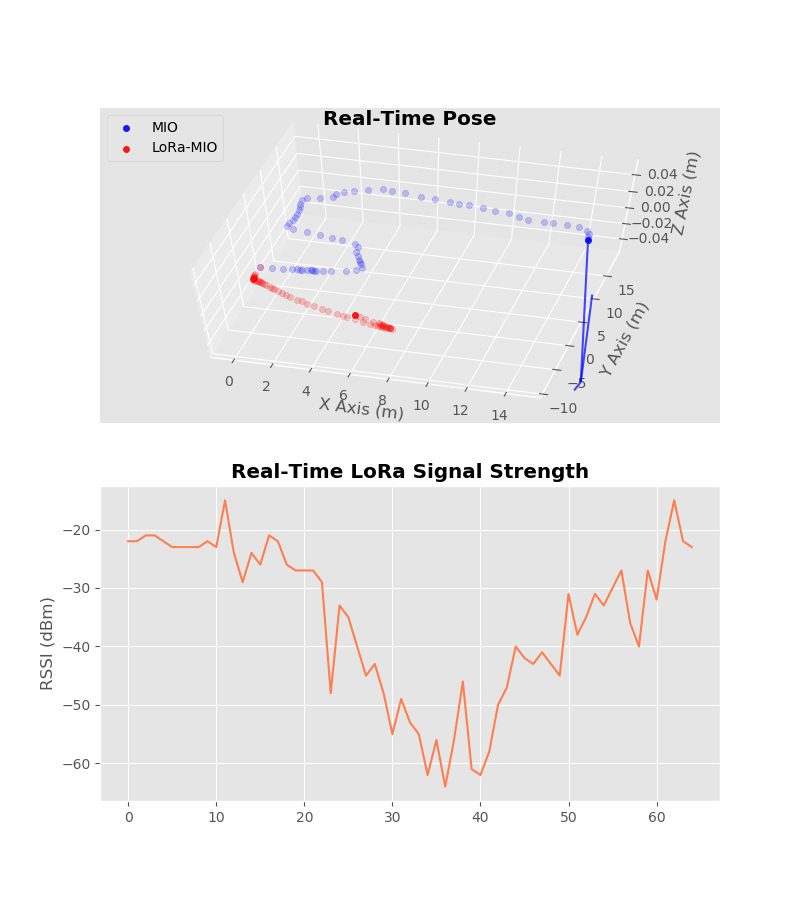
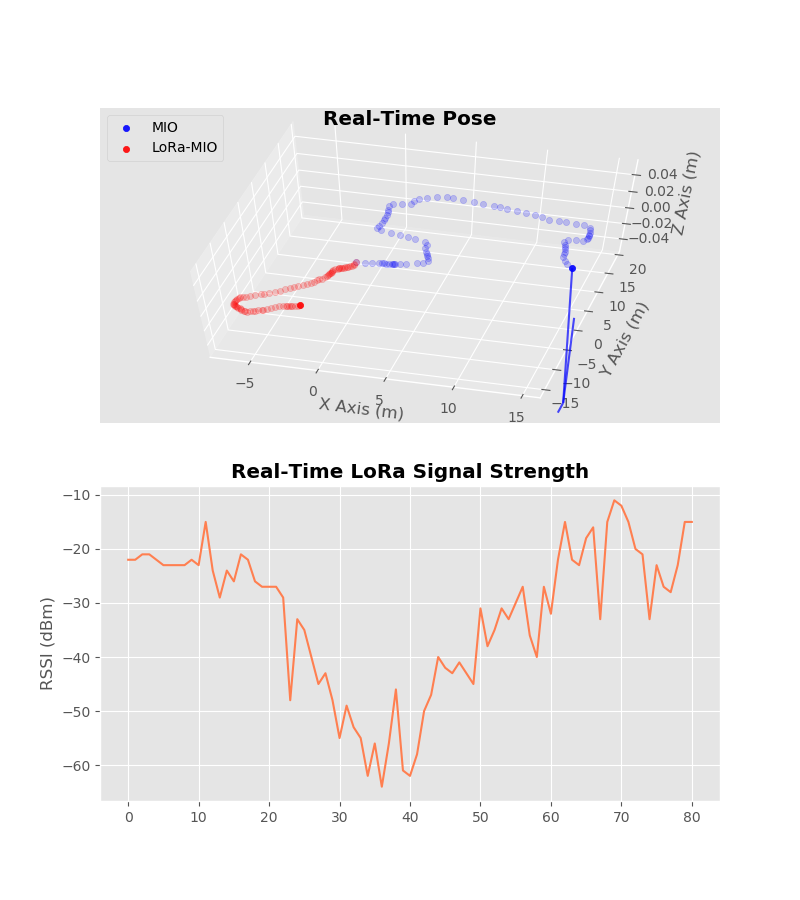
Implemented data Replayer; attempt to tweek EKF params

diff --git a/EKF.py b/EKF.py
@@ -34,8 +34,8 @@ def HJacobian_at(x, anchor=1):
     theta = x[2, 0]
     V = x[3, 0]
     denom = (X - R1[anchor-1, 0])**2 + (Y - R1[anchor-1, 1])**2
-    if denom == 0:
-        denom = .5
+    if denom < 0.25:
+        denom = 0.25
     a = -28.57*math.log10(math.e)
     # HJabobian in (3, 4) if ONE LoRa RX; (5, 4) if THREE LoRa RXs available
     Jacob = array([[0, 0, -dt * V * math.sin(theta), dt * math.cos(theta)],
@@ -58,12 +58,12 @@ def hx(x, anchor=1):
     for row in range(0, anchor):
         dis = np.linalg.norm(x[:2, 0] - R1[row, :2])
         
-        if dis > 1:
+        if dis > 0.5:
             # RSSI Regression Model
             rssi = -28.57*math.log10(dis) - 5.06
             
         else:
-            rssi = -3
+            rssi = -28.57*math.log10(0.5) - 5.06
         
         # Measurement comprises (X, Y, RSSIs)
         h = np.vstack((h, array([[rssi]])))
@@ -171,14 +171,14 @@ class EKF_Fusion():
         self.my_kf.x = array([0., 0., 0., 0.01]).reshape(-1, 1)
 
         # State Transition Martrix: F
-        self.my_kf.F = eye(4) + array([[0, 0, 0, 1.],
-                                  [0, 0, .01, 0],
+        self.my_kf.F = eye(4) + array([[0, 0, 0, 0],
+                                  [0, 0, 0, 0],
                                   [0, 0, 0, 0],
                                   [0, 0, 0, 0]]) * self.dt
 
         # Measurement Noise: R Can be defined Dynamic with MDN-Sigma!
         # my_kf.R = 4.887 # if using 1-dimension Measurement
-        self.my_kf.R = np.diag(np.array([.1**2, .1**2, 4.887**2]))
+        self.my_kf.R = np.diag(np.array([1.**2, 1.**2, 4.887**2]))
 
         # Process Noise: Q
         self.my_kf.Q = array([[0, 0, 0, 0],
@@ -272,7 +272,7 @@ class EKF_Fusion():
             #print("Measurement:\n", z)
             # Refresh Measurement noise R
             for j in range(0, 2):
-                self.my_kf.R[j, j] = self.sigma_list[-g][j]
+                self.my_kf.R[j, j] = self.sigma_list[-g][j]**2 # Sigma stands for Standard Deviation
                 
             # Refresh State Transition Martrix: F
             self.my_kf.F = eye(4) + array([[0, 0, -self.dt * self.my_kf.x[3, 0] * math.sin(self.my_kf.x[2, 0]), self.dt * math.cos(self.my_kf.x[2, 0])],
@@ -352,7 +352,7 @@ class EKF_Fusion():
             plt.show()
         
         
-    def rt_show(self):
+    def rt_show(self, t_limit=0.85):
         start_t = time.time()
         #u, v, w = self.odom_quat[0], self.odom_quat[1], self.odom_quat[2]
         
@@ -396,7 +396,7 @@ class EKF_Fusion():
         stop_t = time.time() - start_t
         print("Elapsed time of VISUALISATION = ", stop_t)
         # Constrain PLOT time to avoid msg Overflow
-        if stop_t > 0.85:
+        if stop_t > t_limit:
             self.fig2.savefig("live_rx.png")
             self.reset_view()
             self.set_view(self.path[-1][0], self.path[-1][1], self.path[-1][2], self.U, self.V, self.W, self.xs[-1][0, 0], self.xs[-1][1, 0], 0.)

diff --git a/replay.py b/replay.py
@@ -1,6 +1,7 @@
+import os
 import sys
+import time
 import numpy as np
-from filterpy.kalman import ExtendedKalmanFilter
 from EKF import *
 
 
@@ -8,21 +9,28 @@ from EKF import *
 
 
 class EKF_Fusion_MultiRX(EKF_Fusion):
-    def __init__(self, anchor):
+    def __init__(self, anchor, dt=0.1, visual=True):
         if type(anchor) != int or anchor < 1:
             print("Number of anchor should be integer greater than 0")
             raise TypeError
         self.anchor = anchor
-        super().__init__(dim_z=2+self.anchor)
+        super().__init__(dim_z=2+self.anchor, dt=dt, visual=visual)
+        # TWEEK PARAMS
+        self.my_kf.x = np.array([0., 0., math.pi/4, 0.1]).reshape(-1, 1)
+        self.my_kf.P = np.diag(np.array([1., 1., 10., 20.]))
+        self.my_kf.Q = np.diag(np.array([.01, .01, 1.0, 0.1]))
         
-        #self.my_kf = ExtendedKalmanFilter(dim_x=4, dim_z=2+self.anchor)
-        measure_noise = np.array([.1**2, .1**2, 4.887**2])
+        measure_noise = np.array([1.**2, 1.**2, 4.887**2])
         for dim in range(1, self.anchor):
             measure_noise = np.hstack((measure_noise, np.array([4.887**2])))
         self.my_kf.R = np.diag(measure_noise)
         
     def sim_run(self):
         super(EKF_Fusion_MultiRX, self).sim_run(anchor=self.anchor)
+        pass
+    
+    def rt_show(self):
+        super(EKF_Fusion_MultiRX, self).rt_show(t_limit=100.)
         pass
         
 
@@ -31,19 +39,44 @@ class EKF_Fusion_MultiRX(EKF_Fusion):
 
 if __name__=="__main__":
     
-    ekf = EKF_Fusion_MultiRX(anchor=3)
+    ekf = EKF_Fusion_MultiRX(anchor=1)
     
     # TODO replay the logged LoRa RX messages
-
     dt = 0.1
-    
+    # SIMULATION
+    '''
     T = 10.
     for i in range(int(T / dt)):
         ekf.sim_run()
         time.sleep(.1)
-    
-    
     ekf.sim_show()
+    '''
+    
+    for filename in os.listdir('TEST'):
+        if filename.endswith('.txt'):
+            with open('TEST/' + filename, "r") as f:
+                recv_list = f.readlines()
+                
+            for item in recv_list:
+                parts = item.split(';')
+                t = parts[0]
+                msgs = parts[1]
+                vals = msgs.split(',')[:-1]
+                rssi = int(parts[2])
+                
+                msg_list = [float(i) for i in vals]
+                msg_list.append(rssi)
+                ekf.new_measure(*msg_list)
+                
+                time.sleep(.001)
+               
+            ekf.fig2.savefig("replay_rx.png")
+            '''
+            ekf.reset_view()
+            ekf.set_view()
+            '''
+    
+    
     
     
 

diff --git a/rx_lora.py b/rx_lora.py
@@ -184,7 +184,7 @@ try :
                             
                         # Logging
                         with open(log_filename, "a+") as f:
-                            f.write("%s; %s; %d\n" % (now_rx, ','.join('%.8f' % item for item in msg_list), rssi))
+                            f.write("%s; %s; %d\n" % (now_rx, ','.join('%.8f' % item for item in msg_list[:-1]), rssi))
                             f.flush()
                         msg_list = []
                         msg_buff = b""
